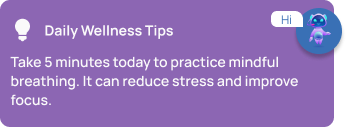
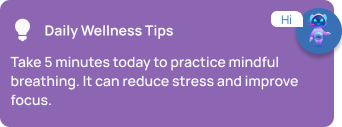
Implement SOS screen UI

diff --git a/lib/app/feature/home/screens/helper.dart b/lib/app/feature/home/screens/helper.dart
@@ -18,11 +18,7 @@ class FeatureCard extends StatelessWidget {
   @override
   Widget build(BuildContext context) {
     return Padding(
-      padding: const EdgeInsets.only(
-        right: 20,
-        left: 20,
-        top: 10,
-      ),
+      padding: const EdgeInsets.only(right: 20, left: 20, top: 10),
       child: SizedBox(
         width: 345.w,
         height: 100.h,
@@ -32,36 +28,132 @@ class FeatureCard extends StatelessWidget {
             borderRadius: BorderRadius.circular(10.r),
           ),
           child: Row(
-            mainAxisAlignment: MainAxisAlignment.center,
+            //mainAxisAlignment: MainAxisAlignment.center,
             children: [
-              Image.asset(
-                image,
-                width: 76.w,
-                height: 100.h,
-                fit: BoxFit.cover
-              ),
-             // Spacer(),
+              Image.asset(image, width: 76.w, height: 100.h, fit: BoxFit.cover),
+              // Spacer(),
               Padding(
                 padding: const EdgeInsets.only(left: 10),
                 child: Column(
-                 crossAxisAlignment: CrossAxisAlignment.start,
+                  crossAxisAlignment: CrossAxisAlignment.start,
                   children: [
                     const SizedBox(height: 10),
-                    Text(
-                      title,
-                      style: AppTextStyle.mango70018cur,
-                    ),
+                    Text(title, style: AppTextStyle.mango70018cur),
 
-                    Text(
-                      subtitle,
-                      style: AppTextStyle.mango40012feature,
-                    ),
+                    Text(subtitle, style: AppTextStyle.mango40012feature),
                   ],
                 ),
               ),
             ],
           ),
         ),
+      ),
+    );
+  }
+}
+
+
+
+class SosCard extends StatelessWidget {
+  final String image;
+  final String title;
+  final String subtitle;
+  final String phone;
+  final VoidCallback onVisit;
+
+  const SosCard({
+    super.key,
+    required this.image,
+    required this.title,
+    required this.subtitle,
+    required this.phone,
+    required this.onVisit,
+  });
+
+  @override
+  Widget build(BuildContext context) {
+    return Container(
+      height: 150,
+      decoration: BoxDecoration(
+        color: const Color(0x992A2D93),
+        borderRadius: BorderRadius.circular(10),
+      ),
+      child: Row(
+        children: [
+          ClipRRect(
+            borderRadius: const BorderRadius.only(
+              topLeft: Radius.circular(10),
+              bottomLeft: Radius.circular(10),
+            ),
+            child: Image.asset(
+              image,
+              width: 90,
+              height: 150,
+              fit: BoxFit.cover,
+            ),
+          ),
+
+          const SizedBox(width: 16),
+
+          Expanded(
+            child: Padding(
+              padding: const EdgeInsets.symmetric(vertical: 18),
+              child: Column(
+                crossAxisAlignment: CrossAxisAlignment.start,
+                children: [
+                  Text(
+                    title,
+                    style: AppTextStyle.mango70014sos,
+                  ),
+
+                  const SizedBox(height: 4),
+
+                  Text(
+                    subtitle,
+                    style: AppTextStyle.mango50012sos,
+                  ),
+
+                  const SizedBox(height: 4),
+
+                  Text(
+                    phone,
+                    style: AppTextStyle.mango50014google,
+                  ),
+
+                // const Spacer(),
+
+                  Expanded(
+                    child: Padding(
+                      padding: const EdgeInsets.only(top: 10),
+                      child: SizedBox(
+                        width: 117,
+                        height: 36,
+                        child: ElevatedButton(
+                          onPressed: onVisit,
+                          style: ElevatedButton.styleFrom(
+                            backgroundColor: const Color(0xFFE91E8C),
+                            foregroundColor: Colors.white,
+                            elevation: 0,
+                            shape: RoundedRectangleBorder(
+                              borderRadius: BorderRadius.circular(6),
+                            ),
+                          ),
+
+                          child: Text(
+                            "Visit",
+                            style: AppTextStyle.mango50014google,
+                          ),
+                        ),
+                      ),
+                    ),
+                  ),
+                ],
+              ),
+            ),
+          ),
+
+          const SizedBox(width: 16),
+        ],
       ),
     );
   }

diff --git a/lib/app/feature/home/screens/sos.dart b/lib/app/feature/home/screens/sos.dart
@@ -1,0 +1,75 @@
+import 'package:flutter/material.dart';
+
+import '../../../constant/AppTextStyle.dart';
+import 'helper.dart';
+import 'package:get/get.dart';
+import 'package:flutter_screenutil/flutter_screenutil.dart';
+
+class Sos extends StatelessWidget {
+  const Sos({super.key});
+
+  @override
+  Widget build(BuildContext context) {
+    return Scaffold(
+      appBar: AppBar(
+        leading: IconButton(
+          onPressed: () => Get.back(),
+          icon: Image.asset("assets/image/arrow/arrow.png"),
+        ),
+        backgroundColor: Colors.transparent,
+        elevation: 0,
+        title: Text("SOS", style: AppTextStyle.mango70018cur),
+        centerTitle: true,
+        // centerTitle: true,
+      ),
+
+      body: SingleChildScrollView(
+        child: Padding(
+          padding: const EdgeInsets.only(left: 20, right: 10),
+          child: Column(
+            crossAxisAlignment: CrossAxisAlignment.start,
+            children: [
+              Column(
+                crossAxisAlignment: CrossAxisAlignment.start,
+                children: [
+                  Text(" Crisis Hotlines", style: AppTextStyle.mango70014sos),
+                  SizedBox(height: 18),
+                  SosCard(
+                    image: "assets/image/sos/sos_call.png",
+                    title: "The Trevor Project",
+                    subtitle: "Support for  young people.",
+                    phone: "+88017**91**64",
+                    onVisit: () {},
+                  ),
+
+                  const SizedBox(height: 10),
+                  SosCard(
+                    image: "assets/image/sos/sos_message.png",
+                    title: "988 Suicide & Crisis Lifeline",
+                    subtitle: "988 Suicide & Crisis Lifeline",
+                    phone: "999",
+                    onVisit: () {},
+                  ),
+                  const SizedBox(height: 10),
+                  SosCard(
+                    image: "assets/image/sos/sos_message.png",
+                    title: "988 Suicide & Crisis Lifeline",
+                    subtitle: "988 Suicide & Crisis Lifeline",
+                    phone: "999",
+                    onVisit: () {},
+                  ),
+                  const SizedBox(height: 20),
+                  Image.asset("assets/image/sos/sos_botton.png"),
+                  const SizedBox(height: 28),
+                  Image.asset("assets/image/sos/sos_botton_2.png"),
+                  const SizedBox(height: 30),
+
+                ],
+              ),
+            ],
+          ),
+        ),
+      ),
+    );
+  }
+}

diff --git a/lib/app/feature/home/screens/MindTools.dart b/lib/app/feature/home/screens/MindTools.dart
@@ -1,24 +1,19 @@
+
 import 'package:flutter/material.dart';
-import 'package:get/get.dart';
-import 'package:lifenest/app/feature/home/controller/HomeController.dart';
 
 import '../../../constant/AppTextStyle.dart';
-import 'package:flutter_screenutil/flutter_screenutil.dart';
-
 import 'helper.dart';
 
-class Feature extends GetView<Homecontroller> {
-  const Feature({super.key});
+class Mindtools extends StatelessWidget {
+  const Mindtools({super.key});
 
   @override
   Widget build(BuildContext context) {
     return Scaffold(
       appBar: AppBar(
-        leading: IconButton(
-          onPressed: () => Get.back(),
-          icon: Image.asset(
-            "assets/image/arrow/arrow.png",
-          ),
+        leading: Padding(
+          padding: const EdgeInsets.only(left: 15),
+          child: Image.asset("assets/image/arrow/arrow.png"),
         ),
 
         backgroundColor: Colors.transparent,
@@ -57,22 +52,22 @@ class Feature extends GetView<Homecontroller> {
               subtitle:
               "Record your thoughts, get AI-powered\ninsights, and chat with your coach.",
             ),
-        
+
             FeatureCard(
               image: "assets/image/feature/feature_05.png",
               title: "Mind Tools",
               subtitle:
               "Quick, interactive tools to help you\nground and recenter.",
             ),
-        
+
             FeatureCard(
               image: "assets/image/feature/feature_06.png",
               title: "Reminder",
               subtitle:
               "Receive a notification for your daily\ncheck-in.",
             ),
-        
-        
+
+
           ],
         ),
       ),

diff --git a/lib/app/feature/home/screens/home.dart b/lib/app/feature/home/screens/home.dart
@@ -3,6 +3,8 @@ import 'package:lifenest/app/constant/AppTextStyle.dart';
 import 'package:flutter_screenutil/flutter_screenutil.dart';
 import 'package:get/get.dart';
 import 'package:lifenest/app/feature/home/screens/Feature.dart';
+import 'package:lifenest/app/feature/home/screens/MindTools.dart';
+import 'package:lifenest/app/feature/home/screens/sos.dart';
 
 import '../../../constant/AppTextStyle.dart';
 import '../../../routes/routes_name.dart';
@@ -129,14 +131,19 @@ class Home extends GetView<Homecontroller> {
                   Expanded(
                     child: Padding(
                       padding: const EdgeInsets.only(left: 8.0),
-                      child: Image.asset("assets/image/home/journal.png"),
+                      child: GestureDetector(
+
+                          onTap: () {
+                            Get.to(() => Sos());
+                          },
+                          child: Image.asset("assets/image/home/sos.png")),
                     ),
                   ),
                   SizedBox(width: 15.w),
                   Expanded(
                     child: Padding(
                       padding: const EdgeInsets.only(right: 10),
-                      child: Image.asset("assets/image/home/spiritual.png"),
+                      child: Image.asset("assets/image/home/ai_coach.png"),
                     ),
                   ),
                 ],

diff --git a/lib/app/constant/AppTextStyle.dart b/lib/app/constant/AppTextStyle.dart
@@ -140,4 +140,25 @@ class AppTextStyle {
     color: const Color(0x99ffffff),
 
   );
+
+
+  static TextStyle get mango70014sos => GoogleFonts.manrope(
+    fontSize: 14.sp,
+    fontWeight: FontWeight.w700,
+    color: const Color(0xffFAFAFA),
+
+  );
+  static TextStyle get mango70016sos => GoogleFonts.manrope(
+    fontSize: 16.sp,
+    fontWeight: FontWeight.w700,
+    color: const Color(0xffFAFAFA),
+
+  );
+
+  static TextStyle get mango50012sos => GoogleFonts.manrope(
+    fontSize: 12.sp,
+    fontWeight: FontWeight.w500,
+    color: const Color(0x99ffffff),
+
+  );
 }
